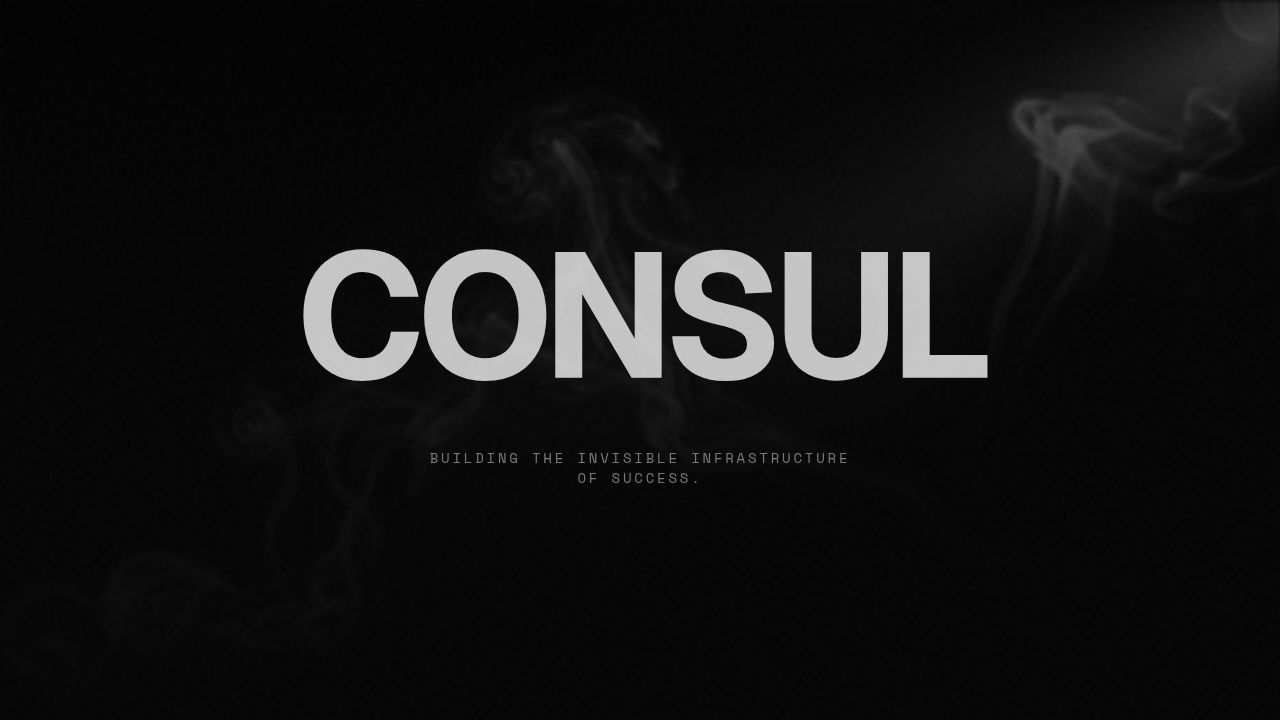
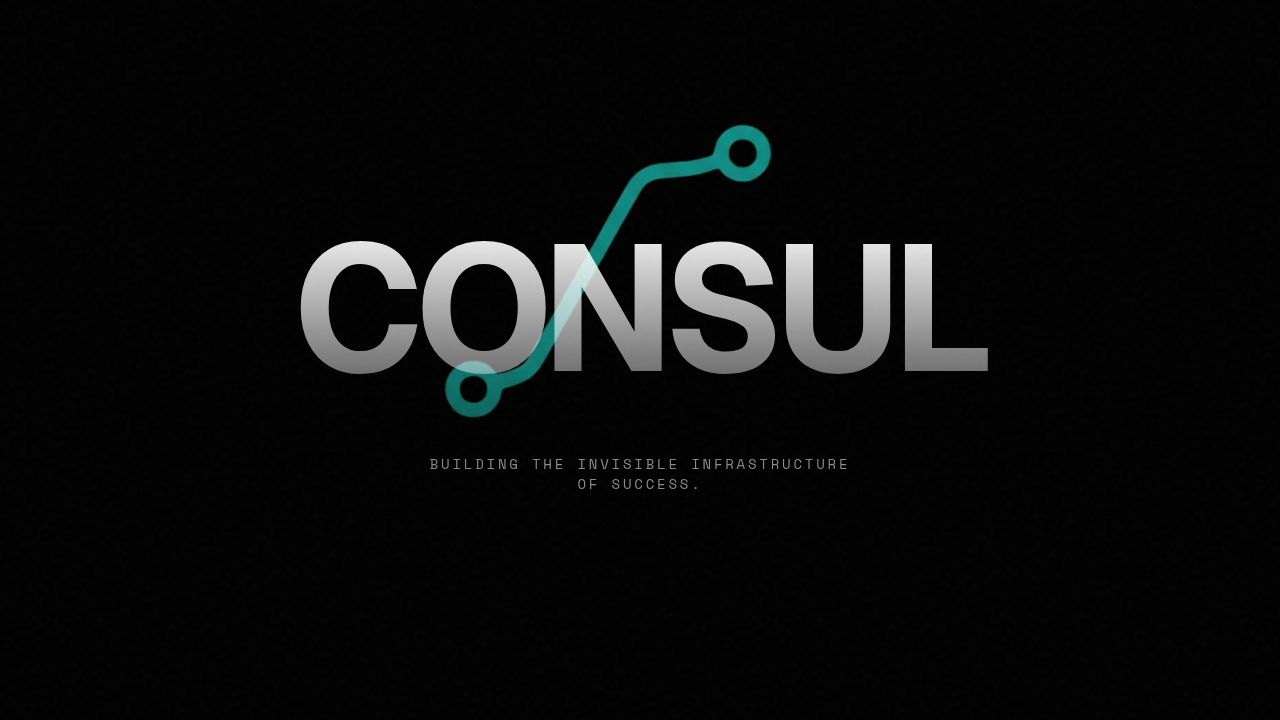
Update hero section to feature abstract graphic on black background
Replaced placeholder background image with a generated graphic, adjusted background color to black, and centered the graphic.

Replit-Commit-Author: Agent
Replit-Commit-Session-Id: ced4d2ee-cdd7-470b-9f44-fd90039c527d
Replit-Commit-Checkpoint-Type: full_checkpoint
Replit-Commit-Event-Id: c32adf16-9e18-4135-b695-5e1e322ae1c1
Replit-Commit-Screenshot-Url: https://storage.googleapis.com/screenshot-production-us-central1/68a368c8-cbc7-4db4-b7c0-b7e6da08be15/ced4d2ee-cdd7-470b-9f44-fd90039c527d/6EODEaX
Replit-Helium-Checkpoint-Created: true

diff --git a/client/src/components/sections/hero.tsx b/client/src/components/sections/hero.tsx
@@ -1,18 +1,17 @@
 import { motion } from "framer-motion";
-import heroBg from "@assets/generated_images/dark_abstract_mesh_gradient_background.png";
+import heroGraphic from "@assets/generated-image_(1)_1765557603982.png";
 
 export function Hero() {
   return (
-    <section className="relative h-screen w-full flex flex-col items-center justify-center overflow-hidden bg-background">
+    <section className="relative h-screen w-full flex flex-col items-center justify-center overflow-hidden bg-black">
       {/* Background with overlay */}
-      <div className="absolute inset-0 z-0">
-        <div className="absolute inset-0 bg-background/20 z-10" />
+      <div className="absolute inset-0 z-0 flex items-center justify-center">
         <img 
-          src={heroBg} 
-          alt="Abstract Mesh" 
-          className="w-full h-full object-cover opacity-60 blur-[1px]" 
+          src={heroGraphic} 
+          alt="Abstract Infrastructure" 
+          className="w-full max-w-4xl h-auto object-contain opacity-90" 
         />
-        <div className="absolute inset-0 bg-gradient-to-b from-transparent via-background/80 to-background z-20" />
+        <div className="absolute inset-0 bg-gradient-to-b from-transparent via-black/20 to-black z-20" />
       </div>
 
       <div className="z-30 text-center px-4 max-w-7xl mx-auto flex flex-col items-center">
@@ -26,7 +25,7 @@ export function Hero() {
             CONSUL
           </h1>
           {/* Subtle glow behind text - reduced opacity */}
-          <div className="absolute inset-0 bg-white/5 blur-[120px] -z-10 rounded-full opacity-30" />
+          <div className="absolute inset-0 bg-white/5 blur-[120px] -z-10 rounded-full opacity-20" />
         </motion.div>
 
         <motion.p
